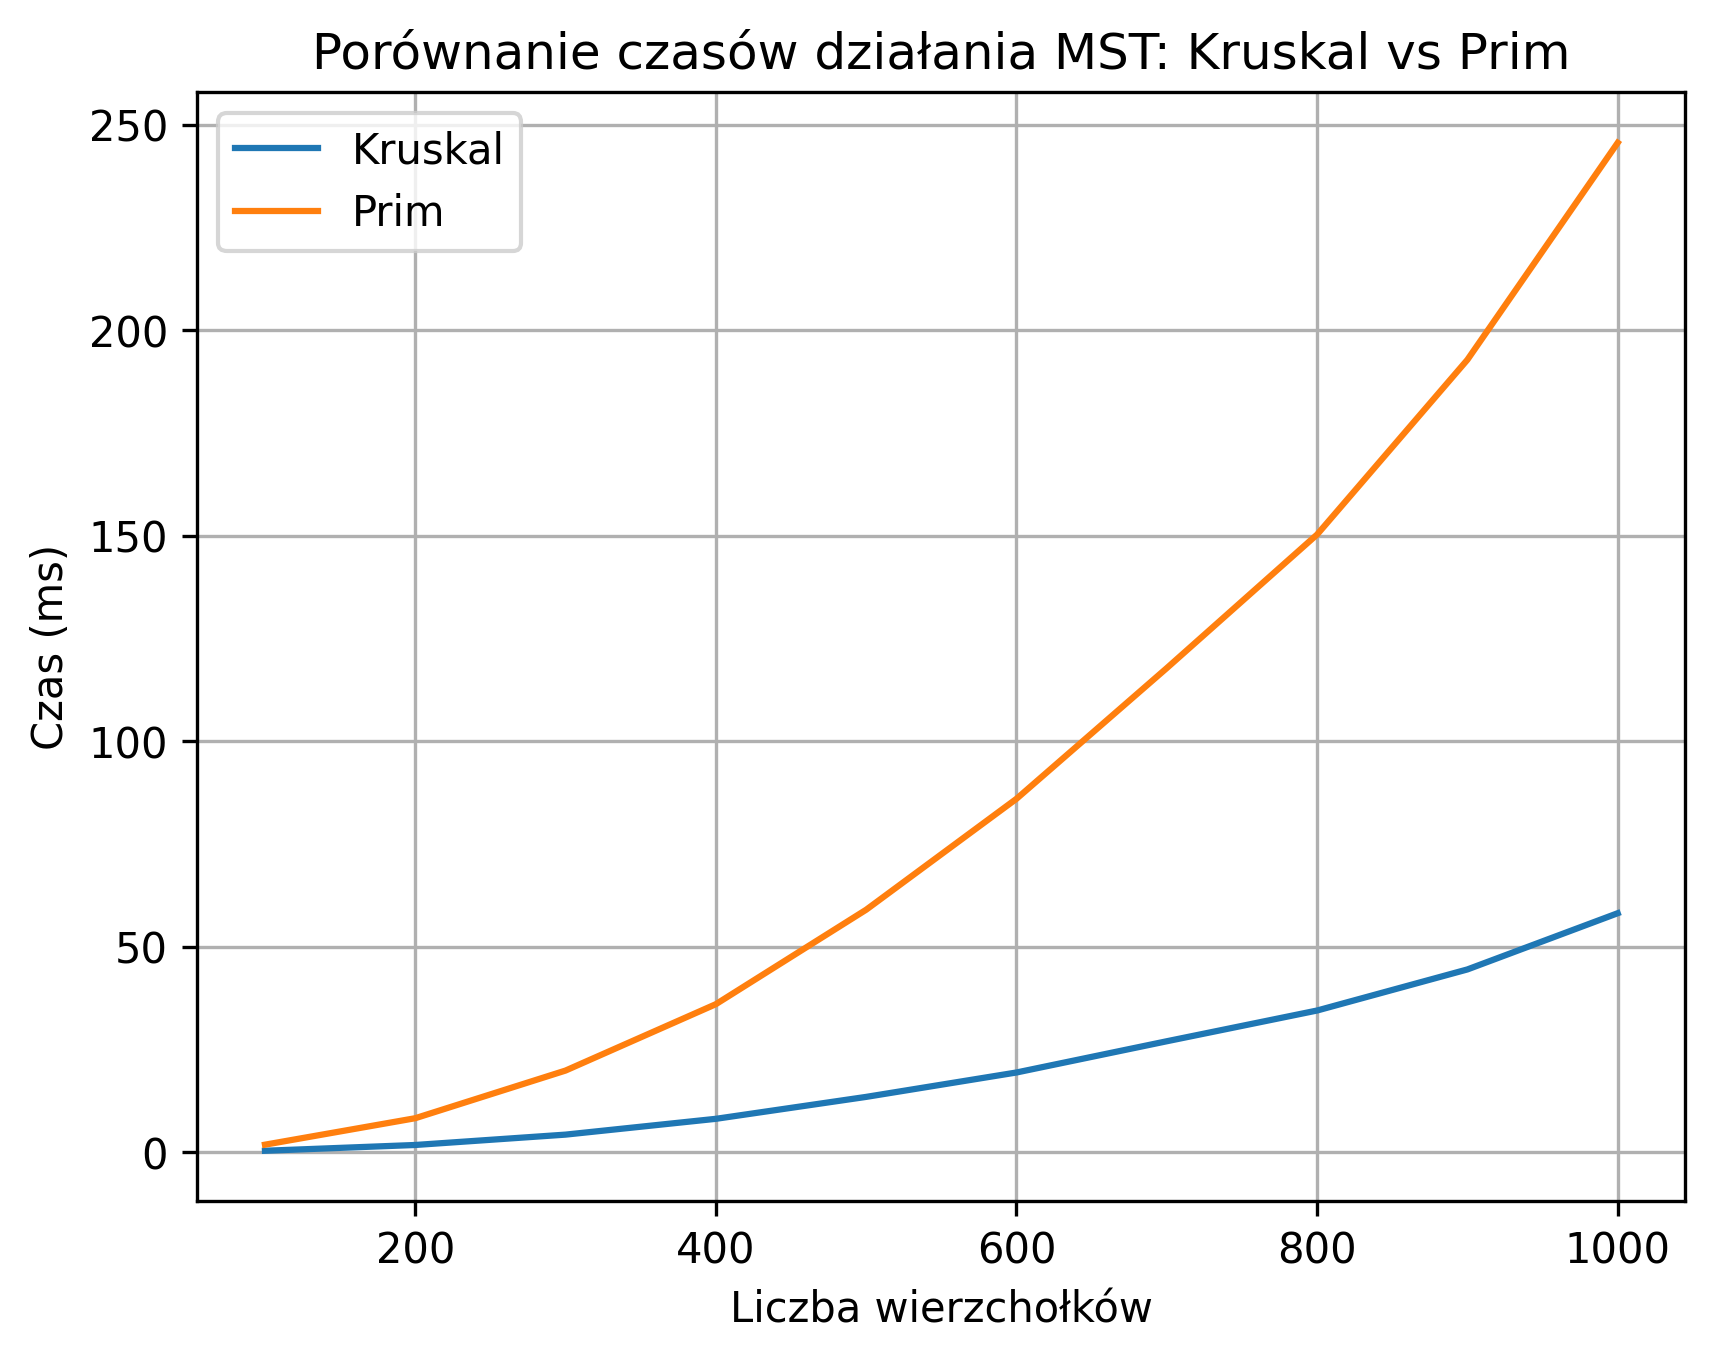
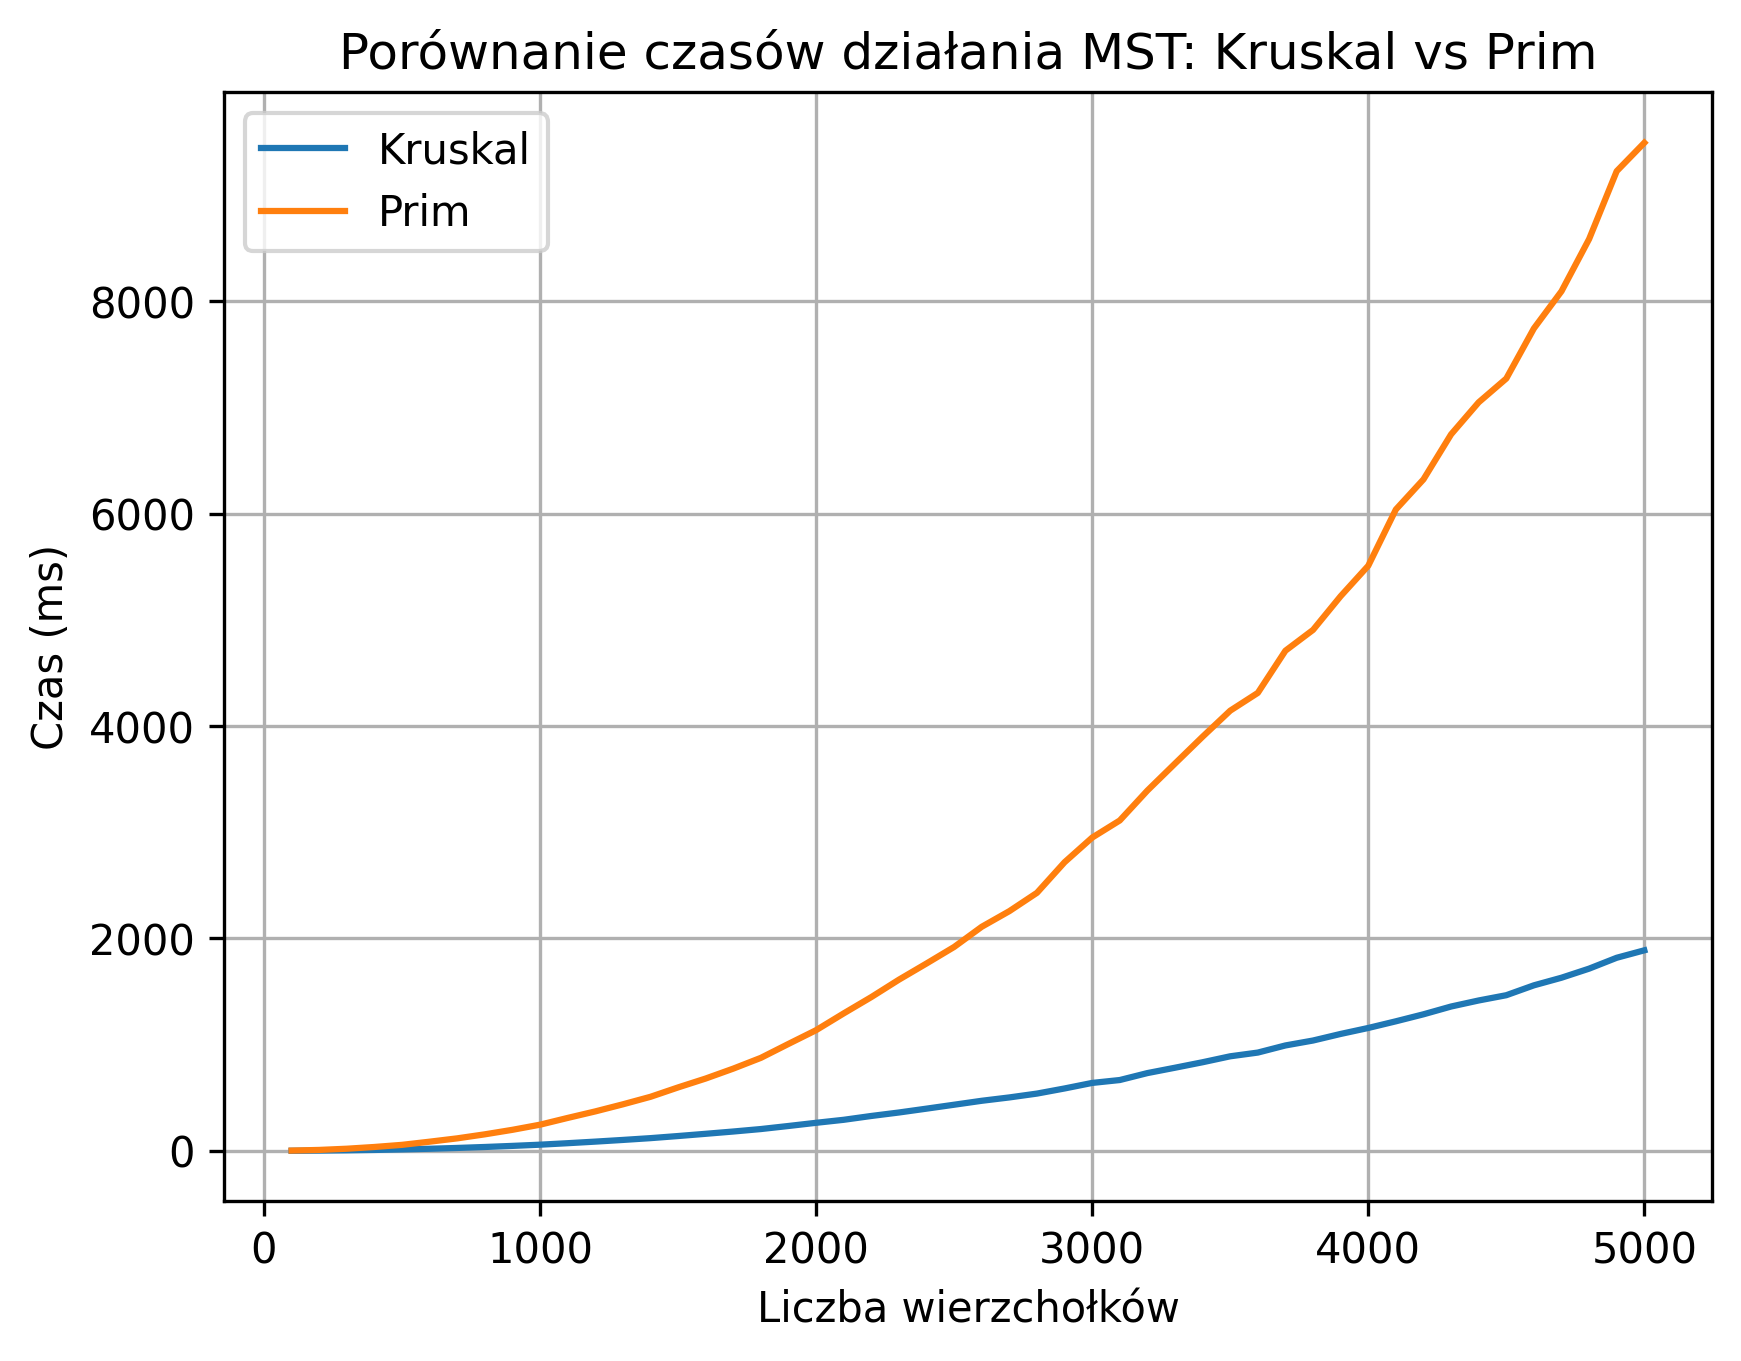
Done L5 z Algo

diff --git a/mw1/L5/Z3/Main_for_n.cpp b/mw1/L5/Z3/Main_for_n.cpp
@@ -165,40 +165,37 @@ private:
 // Definicja statycznego pola
 Node* Heap::NIL = nullptr;
 int j=0;
-void save_to_csv(int n, const string filename="results_operations.csv") {
+void save_to_csv(int n, const string filename="results_n.csv") {
     ofstream file(filename, ios::app); // dopisuje
     if (file.tellp() == 0) {
-        file << "n,i-th operation, comparisons\n";
+        file << "n, comparisons\n";
     }
     j++;
     file << n << ","
-         << j << ","
          << comparisons << "\n";
     file.close();
     comparisons=0;
 }
 
 int main() {
-    int n = 500;
-    Heap H1, H2;
+    int n = 10000;
+    
 
-    for (int i = 0; i < n; i++) {
+    for(int k=100;k<=n;k+=100){
+        Heap H1, H2;
+        for (int i = 0; i < k; i++) {
         H1.insert(mt() % (25 * n));
-        save_to_csv(n);
         H2.insert(mt() % (25 * n));
-        save_to_csv(n);
-    }
+        }
 
-    Heap H = Heap::Binomial_heap_union(H1, H2);
-    save_to_csv(n);
+        Heap H = Heap::Binomial_heap_union(H1, H2);
 
-    for (int i = 0; i < 2 * n; i++) {
-        int min_val = H.extract_min();
-        // if (min_val != -1)
-        //     cout << min_val << " ";
-        save_to_csv(n);
+        for (int i = 0; i < 2 * k; i++) {
+            int min_val = H.extract_min();
+        }
+        save_to_csv(k);
     }
-    cout << "\nHeap is empty\n";
+    
 
     return 0;
 }

diff --git a/mw1/L5/Z3/Wykres_operations.py b/mw1/L5/Z3/Wykres_operations.py
@@ -1,0 +1,28 @@
+import pandas as pd
+import matplotlib.pyplot as plt
+
+# Load CSV file
+df = pd.read_csv("results_operations.csv", header=None, names=["n", "operation_index", "comparisons"])
+
+# Ensure numeric type for sorting and plotting
+df["operation_index"] = pd.to_numeric(df["operation_index"], errors="coerce")
+df["comparisons"] = pd.to_numeric(df["comparisons"], errors="coerce")
+
+# Sort by operation index
+df = df.sort_values(by="operation_index")
+
+# Get first unique n
+n_value = df["n"].unique()[0]
+
+# Plot
+plt.figure(figsize=(20, 6))
+plt.plot(df["operation_index"], df["comparisons"], linestyle='-', linewidth=0.5, color='blue')
+
+plt.title(f"Comparisons per Operation (n={n_value})")
+plt.xlabel("i-th Operation")
+plt.ylabel("Comparisons")
+plt.grid(True)
+
+plt.tight_layout()
+plt.savefig("comparisons_plot.png")
+print("Plot saved as comparisons_plot.png")

diff --git a/mw1/L5/Z3/Wykres_n.py b/mw1/L5/Z3/Wykres_n.py
@@ -1,0 +1,28 @@
+import pandas as pd
+import matplotlib.pyplot as plt
+
+# Load CSV file
+df = pd.read_csv("results_n.csv", header=None, names=["n", "comparisons"])
+
+# Ensure numeric type for sorting and plotting
+df["n"] = pd.to_numeric(df["n"], errors="coerce")
+df["comparisons"] = pd.to_numeric(df["comparisons"], errors="coerce")
+
+# Sort by operation index
+#df = df.sort_values(by="n")
+
+# Get first unique n
+#n_value = df["n"].unique()[0]
+
+# Plot
+plt.figure(figsize=(10, 6))
+plt.plot(df["n"], df["comparisons"]/df["n"], linestyle='-', linewidth=0.5, color='blue')
+
+plt.title(f"Average Cost per operation")
+plt.xlabel("n")
+plt.ylabel("Comparisons / n")
+plt.grid(True)
+
+plt.tight_layout()
+plt.savefig("comparisons_per_n_plot.png")
+print("Plot saved as comparisons_per_n_plot.png")

diff --git a/mw1/L5/Z1/Main.cpp b/mw1/L5/Z1/Main.cpp
@@ -133,7 +133,7 @@ void run_experiment(int nMin, int nMax, int step, int rep) {
 }
 
 int main() {
-    int nMin = 100, nMax = 1000, step = 100, rep = 5;
+    int nMin = 100, nMax = 5000, step = 100, rep = 5;
     run_experiment(nMin, nMax, step, rep);
     return 0;
 }
